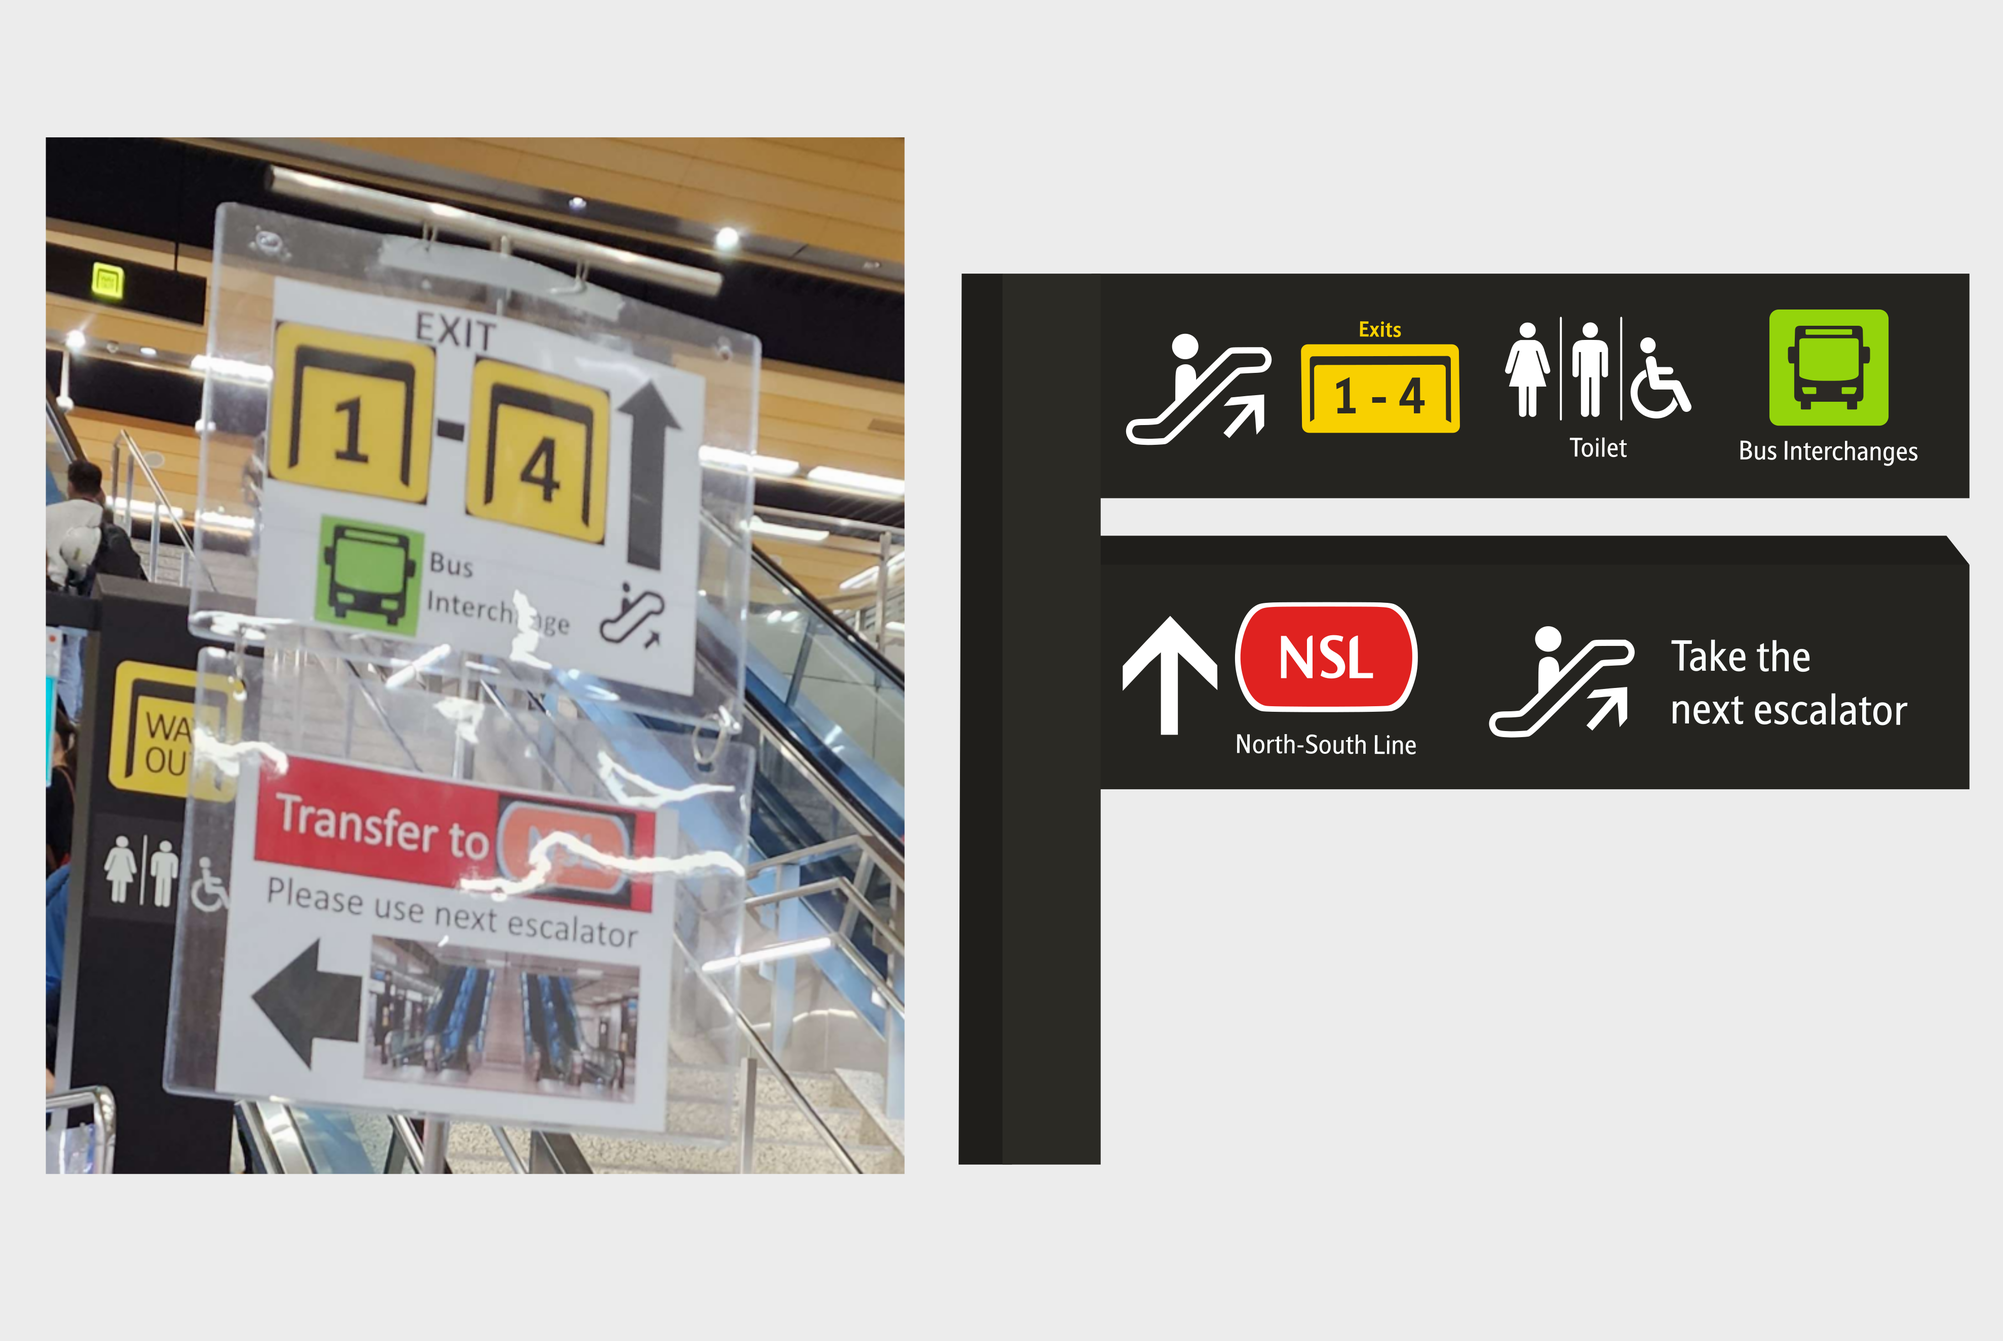
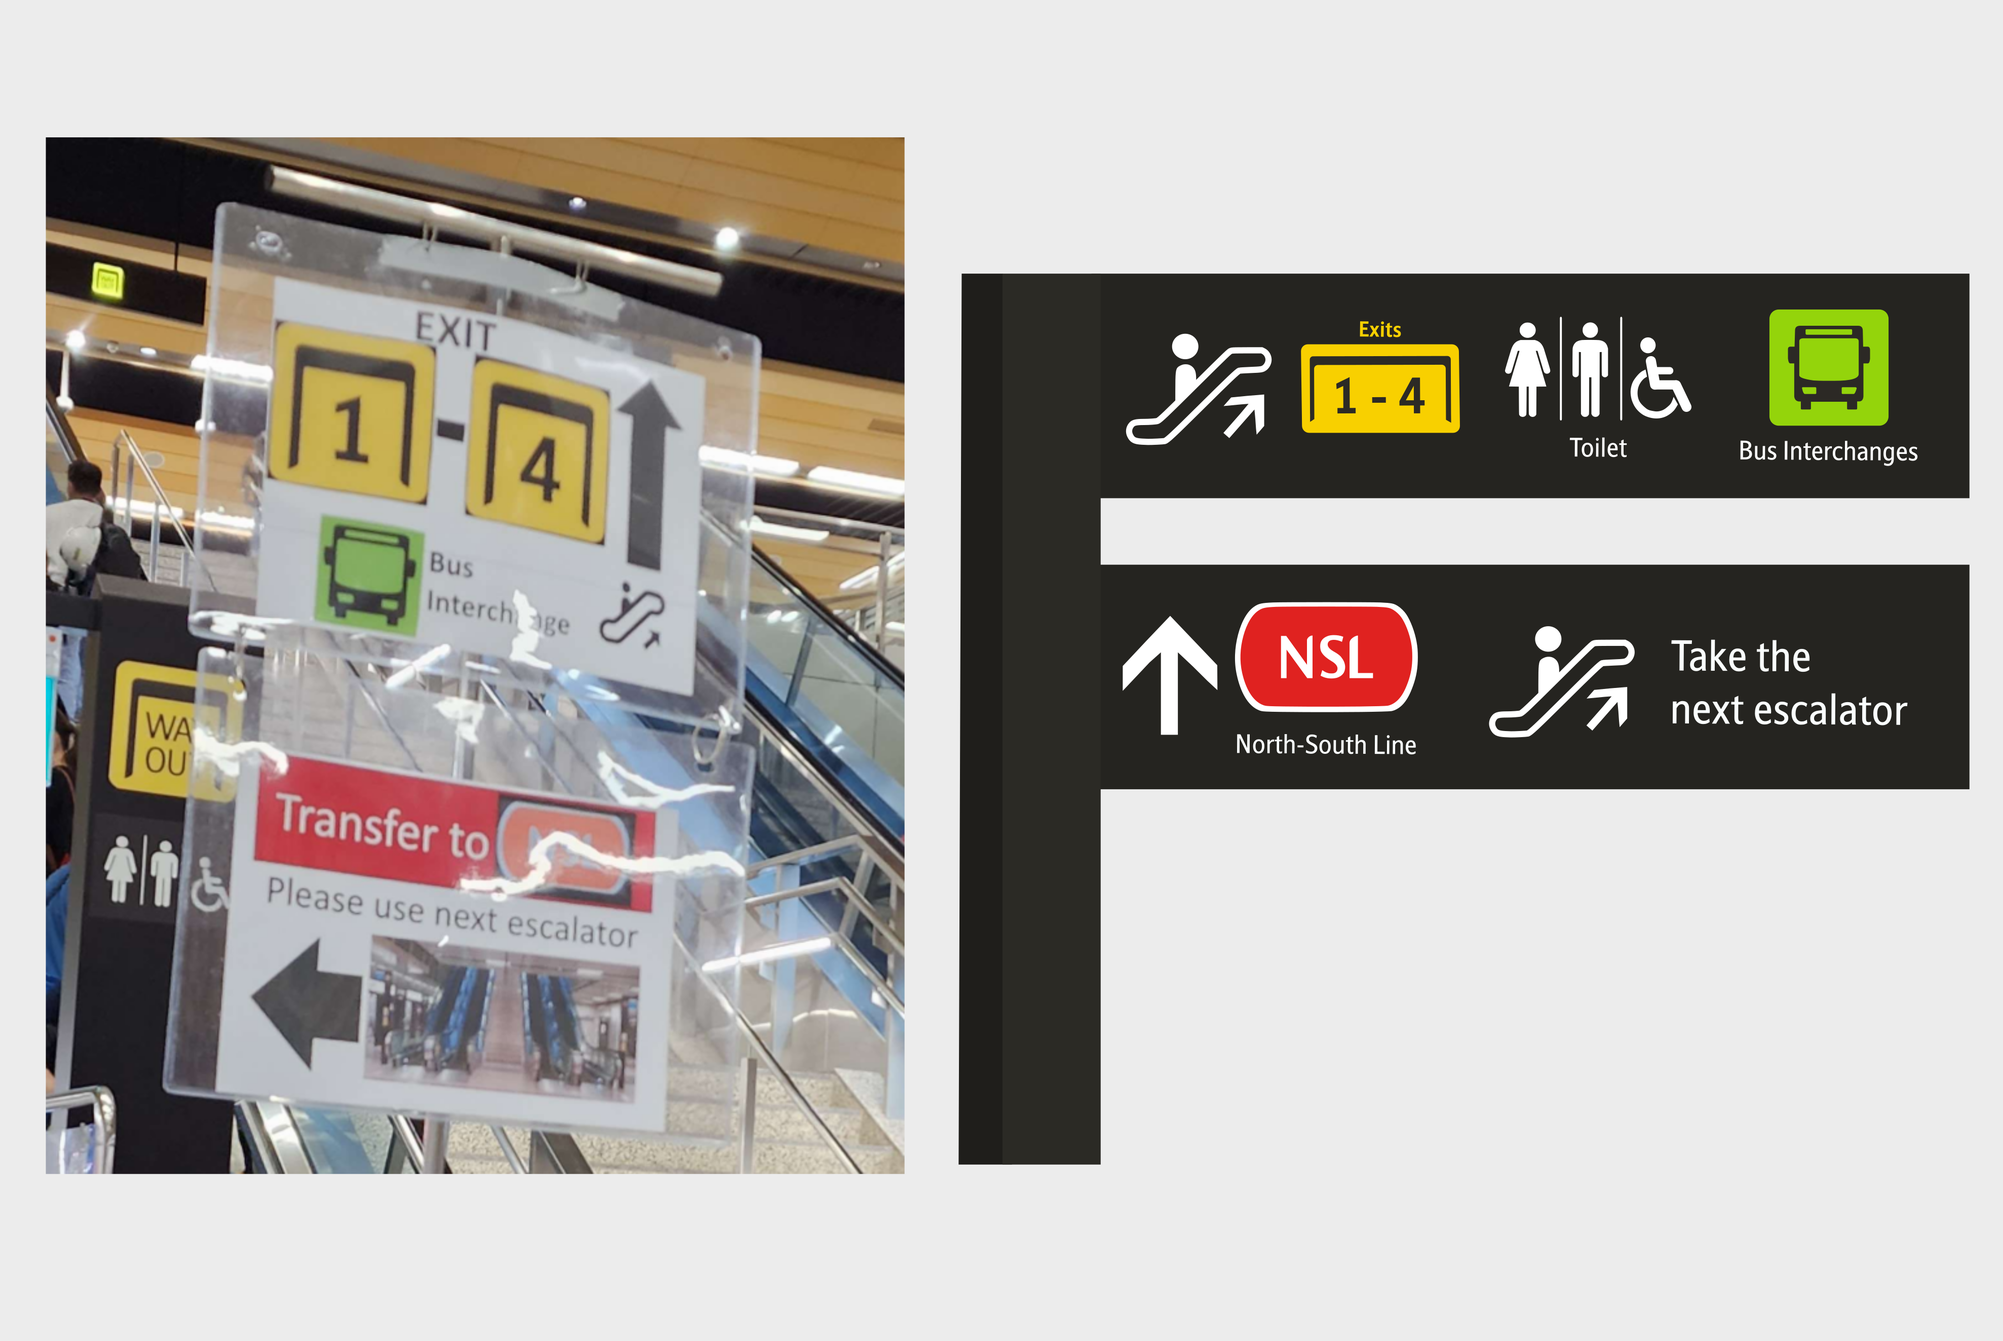
2023-01 Updates to signages-nrfz Insider Preview

Changed region(s): [[0.5288, 0.3717, 0.9954, 0.4337]]

diff --git a/index.html b/index.html
@@ -139,7 +139,8 @@
                   class="glightbox preview-link"><img src="assets/img/prob-sol-img/nws.jpg" class="img-fluid-portfolio"
                     alt=""></a>
                 <br><br>
-                <p class="contextImg-caption">The New Wayfinding System - in the initial state before modifications
+                <p class="contextImg-caption">Fig.1: The New Wayfinding System - in the initial state before
+                  modifications
                   <br>(Picture Credits: <a
                     href="https://eyeondesign.aiga.org/one-designers-quest-to-redesign-singapores-subway-signage/">
                     Samuel Lim via AIGA - Eye On Design</a>)
@@ -160,10 +161,10 @@
                 escalators, one would bring you to the NSL, the middle ones would bring you to the Way Out, and the
                 third one, would bring you to Exits 5-7. Many commuters would mistakenly take the middle set of
                 escalators, where it only brings you to the Way Out, and not to NSL, because that is where the Faregates
-                are. Hence signages like these (Fig. 1) were placed. While useful, it looks very clunky.
+                are. Hence signages like these (Fig. 2) were placed. While useful, it looks very clunky.
 
                 <br><br>The worst one was seen at Marina Bay, where
-                the portable signages, showing the NSL/CCL direction (Fig. 3). The same info can be found just by
+                the portable signages, showing the NSL/CCL direction (Fig. 4). The same info can be found just by
                 looking up, where the permanent signs were!
                 Why were the portable signs necessary then?
 
@@ -176,7 +177,7 @@
                   class="glightbox preview-link"><img src="assets/img/prob-sol-img/wdl-1.jpg"
                     class="img-fluid-portfolio" alt=""></a>
                 <br><br>
-                <p class="contextImg-caption text-center">Fig.1: Woodlands TEL's Portable Signs telling commuters to use
+                <p class="contextImg-caption text-center">Fig.2: Woodlands TEL's Portable Signs telling commuters to use
                   the other
                   set of escaltors to NSL.
                   <br>(Picture Credits: Me)
@@ -188,7 +189,7 @@
                   class="glightbox preview-link"><img src="assets/img/prob-sol-img/lnt-1.jpg"
                     class="img-fluid-portfolio" alt=""></a>
                 <br><br>
-                <p class="contextImg-caption text-center">Fig.2: Paper signs showing the Exit Directories
+                <p class="contextImg-caption text-center">Fig.3: Paper signs showing the Exit Directories
                   <br>(Picture Credits: Me)
                 </p>
               </div>
@@ -199,7 +200,7 @@
                     class="img-fluid-portfolio" alt=""></a>
                 <br><br>
                 <div class="portfolio-info">
-                  <p class="contextImg-caption text-center">Fig.3: Marina Bay TEL's Portable Signs showing commuters the
+                  <p class="contextImg-caption text-center">Fig.4: Marina Bay TEL's Portable Signs showing commuters the
                     directions to NSL/CCL.
                     <br>(Picture Credits: Me)
                   </p>
@@ -234,7 +235,7 @@
 
                 <h3>Part 1: Wayfinding Iconographies</h3><br>
                 <p class="summary">
-                  Let's take a look at Figure 4. What do these icons mean to
+                  Let's take a look at Figure 5. What do these icons mean to
                   an average person, who may not understand what these were supposed to depict? In addition, would a
                   tourist immediately know what is TEL, NEL etc? <br>
                 </p>
@@ -245,7 +246,7 @@
                         class="img-fluid-portfolio" alt=""></a>
                     <br><br>
                     <div class="portfolio-info">
-                      <p class="contextImg-caption text-center">Fig.4: A few examples of icons being used in the system.
+                      <p class="contextImg-caption text-center">Fig.5: A few examples of icons being used in the system.
                         Recreated the real-life ones as accurate as possible
                         <br>(Picture Credits: Me)
                       </p>
@@ -258,9 +259,8 @@
                         class="img-fluid-portfolio" alt=""></a>
                     <br><br>
                     <div class="portfolio-info">
-                      <p class="contextImg-caption text-center">Fig.3: Marina Bay TEL's Portable Signs showing commuters
-                        the
-                        directions to NSL/CCL.
+                      <p class="contextImg-caption text-center">Fig.6: Marina Bay TEL's Portable Signs showing commuters
+                        the directions to NSL/CCL.
                         <br>(Picture Credits: Me)
                       </p>
                     </div>
@@ -317,117 +317,174 @@
         <div class="tab-content">
 
           <div class="tab-pane active show" id="tab-1a">
-            <div class="row">
-
+            <!--  -->
+            <!-- <div class="row">
+              <h3 class="summary-tit text-center">Design</h3>
               <div class="col-lg-8 order-2 order-lg-1" data-aos="fade-up" data-aos-delay="100">
-                <h3 class="summary-tit">Design & Development</h3>
                 <p class="summary">
-                  Now this is the fun part. How do I improve the designs, based on my point of view.<br><br>
 
-                  While the intention sounds good on paper, the execution turned out to be problematic, as navigating
-                  through the Interchange station with these new system, were in fact, confusing commuters more. These
-                  became evident after the opening of TEL2, where the passenger traffic grew, and people began
-                  utilising
-                  the line.<br><br><b>Head over to the Experiences tab, where you'll see what the problem is all
-                    about.</b>
+
                 </p>
               </div>
 
               <div class="col-md-4 order-1 order-lg-2 text-center portfolio-item filter-id">
-                <a href="assets/img/prob-sol-img/wdl-1.jpg" data-gallery="portfolio-gallery"
-                  class="glightbox preview-link"><img src="assets/img/prob-sol-img/wdl-1.jpg"
-                    class="img-fluid-portfolio" alt=""></a>
+                <a href="assets/img/prob-sol-img/mrbr.png" data-gallery="portfolio-gallery"
+                  class="glightbox preview-link"><img src="assets/img/prob-sol-img/mrbr.png" class="img-fluid-portfolio"
+                    alt=""></a>
                 <br><br>
-                <p class="contextImg-caption text-center">Fig.1: Woodlands TEL's Portable Signs telling commuters to use
-                  the other
-                  set of escaltors to NSL.
-                  <br>(Picture Credits: Me)
-                </p>
+
               </div>
-            </div>
+              </div> -->
+
+              <div class="row">
+                <h3>Design & Development</h3><br><br><br>
+                <p class="summary">
+                  Now this is the fun part. How do I improve the designs, based on my point of view.<br><br>
+                  The quote by <a href="https://youtu.be/sA2jQ0_UazU?t=60">Barbie</a>, "it's really not that bad, it
+                  just needs a little shaping", applies to the existing Wayfinding Systems as well. Adding a small texts
+                  below the big icons would help in clarity too. For example, I wanted to go to Marina Barrage. Now, if
+                  this is your first time at Gardens By the Bay, you will be greeted with this (See Figure x)
+                </p>
+  
+                <div class="col-md-4 portfolio-item filter-id">
+                  <a href="assets/img/prob-sol-img/mrbr.png" data-gallery="portfolio-gallery"
+                    class="glightbox preview-link"><img src="assets/img/prob-sol-img/mrbr.png"
+                      class="img-fluid-portfolio" alt=""></a>
+                  <br><br>
+                  <p class="contextImg-caption text-center">Fig.x: Gardens By The Bay Concourse Signage
+                    <br>(Picture Credits: Me)
+                  </p>
+                </div>
+  
+                <div class="col-md-4 portfolio-item filter-id">
+                  <a href="assets/img/prob-sol-img/lnt-1.jpg" data-gallery="portfolio-gallery"
+                    class="glightbox preview-link"><img src="assets/img/prob-sol-img/lnt-1.jpg"
+                      class="img-fluid-portfolio" alt=""></a>
+                  <br><br>
+                  <p class="contextImg-caption text-center">Fig.3: Paper signs showing the Exit Directories
+                    <br>(Picture Credits: Me)
+                  </p>
+                </div>
+  
+
+              </div>
+              
+
+
+
           </div><!-- End Tab Content 1 -->
 
           <div class="tab-pane" id="tab-2a">
             <div class="row">
               <h3 class="text-center">Virtual Prototypes</h3><br><br><br>
 
-              <h3>Part 1: Wayfinding Iconographies</h3><br>
-              <div class="col-md-4 portfolio-item filter-id">
-                <a href="assets/img/prob-sol-img/proto1.png" data-gallery="portfolio-gallery"
-                  class="glightbox preview-link"><img src="assets/img/prob-sol-img/proto1.png"
-                    class="img-fluid-portfolio" alt=""></a>
-                <br><br>
-                <p class="contextImg-caption text-center">Fig.x: Instead of showing just the Way Out icon (which is pretty obvious), show what Exits the set of escalators would lead you to.
-                </p>
+              <h3>Part 1: Wayfinding Iconographies</h3><br><br><br>
+
+              <div class="row">
+
+                <div class="col-md-4 order-2 order-lg-1 text-center portfolio-item filter-id">
+                  <a href="assets/img/prob-sol-img/proto1.png" data-gallery="portfolio-gallery"
+                    class="glightbox preview-link"><img src="assets/img/prob-sol-img/proto1.png"
+                      class="img-fluid-portfolio" alt=""></a>
+                  <br><br>
+                  <p class="contextImg-caption text-center">Fig.x: Reworked signages for Woodlands TEL, middle set of
+                    escators
+                  </p>
+                  </p>
+                </div>
+
+                <div class="col-lg-8 order-2 order-lg-1" data-aos="fade-up" data-aos-delay="100">
+                  <p class="summary">
+                    Instead of showing just the Way Out icon (which is
+                    pretty obvious), show where Exits the set of escalators would lead you to.
+                  </p>
+                </div>
               </div>
 
-              <div class="col-md-4 portfolio-item filter-id">
+
+              <div class="col-md-4 order-2 order-lg-1 text-center portfolio-item filter-id">
                 <a href="assets/img/prob-sol-img/proto2.png" data-gallery="portfolio-gallery"
                   class="glightbox preview-link"><img src="assets/img/prob-sol-img/proto2.png"
                     class="img-fluid-portfolio" alt=""></a>
                 <br><br>
-                <p class="contextImg-caption text-center">Fig.x: Instead of showing just the Way Out icon (which is pretty obvious), show what Exits the set of escalators would lead you to.
+                <p class="contextImg-caption text-center">Fig.x: Reworked signages for exisiting signages - for example,
+                  Dhoby Ghaut CCL station
+                </p>
                 </p>
               </div>
 
-              <h3>Part 2: Exit Directories</h3><br>
-              <div class="col-md-4 portfolio-item filter-id">
-                <a href="assets/img/prob-sol-img/wdl-1.jpg" data-gallery="portfolio-gallery"
-                  class="glightbox preview-link"><img src="assets/img/prob-sol-img/wdl-1.jpg"
-                    class="img-fluid-portfolio" alt=""></a>
-                <br><br>
-                <p class="contextImg-caption text-center">Fig.1: Woodlands TEL's Portable Signs telling commuters to use
-                  the other
-                  set of escaltors to NSL.
-                  <br>(Picture Credits: Me)
+              <div class="col-lg-8 order-2 order-lg-1" data-aos="fade-up" data-aos-delay="100">
+                <p class="summary">
+                  The proposed design works for older signages too. As
+                  older signages are more wordy and contained many details, I do not want to simply eliminate those
+                  away. Hence, I decided to balance between being simple, while remaining informative - with Icons still
+                  being the
+                  focal point of the signs. <br><br> The exit names, which used to occupy the existing signage, has been
+                  decoupled and separated below the empty spaces. The current implementation lacks these. Just showing
+                  the Way Out icon alone isn't enough.
                 </p>
-              </div>
-
-              <h3>Part 3: Consistencies, as a whole</h3><br>
-              <div class="col-md-4 portfolio-item filter-id">
-                <a href="assets/img/prob-sol-img/wdl-1.jpg" data-gallery="portfolio-gallery"
-                  class="glightbox preview-link"><img src="assets/img/prob-sol-img/wdl-1.jpg"
-                    class="img-fluid-portfolio" alt=""></a>
-                <br><br>
-                <p class="contextImg-caption text-center">Fig.1: Woodlands TEL's Portable Signs telling commuters to use
-                  the other
-                  set of escaltors to NSL.
-                  <br>(Picture Credits: Me)
-                </p>
-              </div>
-
-              <div class="col-md-4 portfolio-item filter-id">
-                <a href="assets/img/prob-sol-img/lnt-1.jpg" data-gallery="portfolio-gallery"
-                  class="glightbox preview-link"><img src="assets/img/prob-sol-img/lnt-1.jpg"
-                    class="img-fluid-portfolio" alt=""></a>
-                <br><br>
-                <p class="contextImg-caption text-center">Fig.2: Paper signs showing the Exit Directories
-                  <br>(Picture Credits: Me)
-                </p>
-              </div>
-
-              <div class="col-md-4 portfolio-item filter-id">
-                <a href="assets/img/prob-sol-img/mrb-1.jpg" data-gallery="portfolio-gallery"
-                  class="glightbox preview-link"><img src="assets/img/prob-sol-img/mrb-1.jpg"
-                    class="img-fluid-portfolio" alt=""></a>
-                <br><br>
-                <div class="portfolio-info">
-                  <p class="contextImg-caption text-center">Fig.3: Marina Bay TEL's Portable Signs showing commuters the
-                    directions to NSL/CCL.
-                    <br>(Picture Credits: Me)
-                  </p>
-                </div>
               </div>
             </div>
-          </div><!-- End Tab Content 2 -->
-
-          <div class="tab-pane" id="tab-3a">
-            <div class="row">
 
 
+            <h3>Part 2: Exit Directories</h3><br>
+            <div class="col-md-4 portfolio-item filter-id">
+              <a href="assets/img/prob-sol-img/wdl-1.jpg" data-gallery="portfolio-gallery"
+                class="glightbox preview-link"><img src="assets/img/prob-sol-img/wdl-1.jpg" class="img-fluid-portfolio"
+                  alt=""></a>
+              <br><br>
+              <p class="contextImg-caption text-center">Fig.1: Woodlands TEL's Portable Signs telling commuters to use
+                the other
+                set of escaltors to NSL.
+                <br>(Picture Credits: Me)
+              </p>
             </div>
-          </div><!-- End Tab Content 3 -->
-        </div>
+
+            <h3>Part 3: Consistencies, as a whole</h3><br>
+            <div class="col-md-4 portfolio-item filter-id">
+              <a href="assets/img/prob-sol-img/wdl-1.jpg" data-gallery="portfolio-gallery"
+                class="glightbox preview-link"><img src="assets/img/prob-sol-img/wdl-1.jpg" class="img-fluid-portfolio"
+                  alt=""></a>
+              <br><br>
+              <p class="contextImg-caption text-center">Fig.1: Woodlands TEL's Portable Signs telling commuters to use
+                the other
+                set of escaltors to NSL.
+                <br>(Picture Credits: Me)
+              </p>
+            </div>
+
+            <div class="col-md-4 portfolio-item filter-id">
+              <a href="assets/img/prob-sol-img/lnt-1.jpg" data-gallery="portfolio-gallery"
+                class="glightbox preview-link"><img src="assets/img/prob-sol-img/lnt-1.jpg" class="img-fluid-portfolio"
+                  alt=""></a>
+              <br><br>
+              <p class="contextImg-caption text-center">Fig.2: Paper signs showing the Exit Directories
+                <br>(Picture Credits: Me)
+              </p>
+            </div>
+
+            <div class="col-md-4 portfolio-item filter-id">
+              <a href="assets/img/prob-sol-img/mrb-1.jpg" data-gallery="portfolio-gallery"
+                class="glightbox preview-link"><img src="assets/img/prob-sol-img/mrb-1.jpg" class="img-fluid-portfolio"
+                  alt=""></a>
+              <br><br>
+              <div class="portfolio-info">
+                <p class="contextImg-caption text-center">Fig.3: Marina Bay TEL's Portable Signs showing commuters the
+                  directions to NSL/CCL.
+                  <br>(Picture Credits: Me)
+                </p>
+              </div>
+            </div>
+          </div>
+        </div><!-- End Tab Content 2 -->
+
+        <div class="tab-pane" id="tab-3a">
+          <div class="row">
+
+
+          </div>
+        </div><!-- End Tab Content 3 -->
+      </div>
 
       </div>
     </section>
